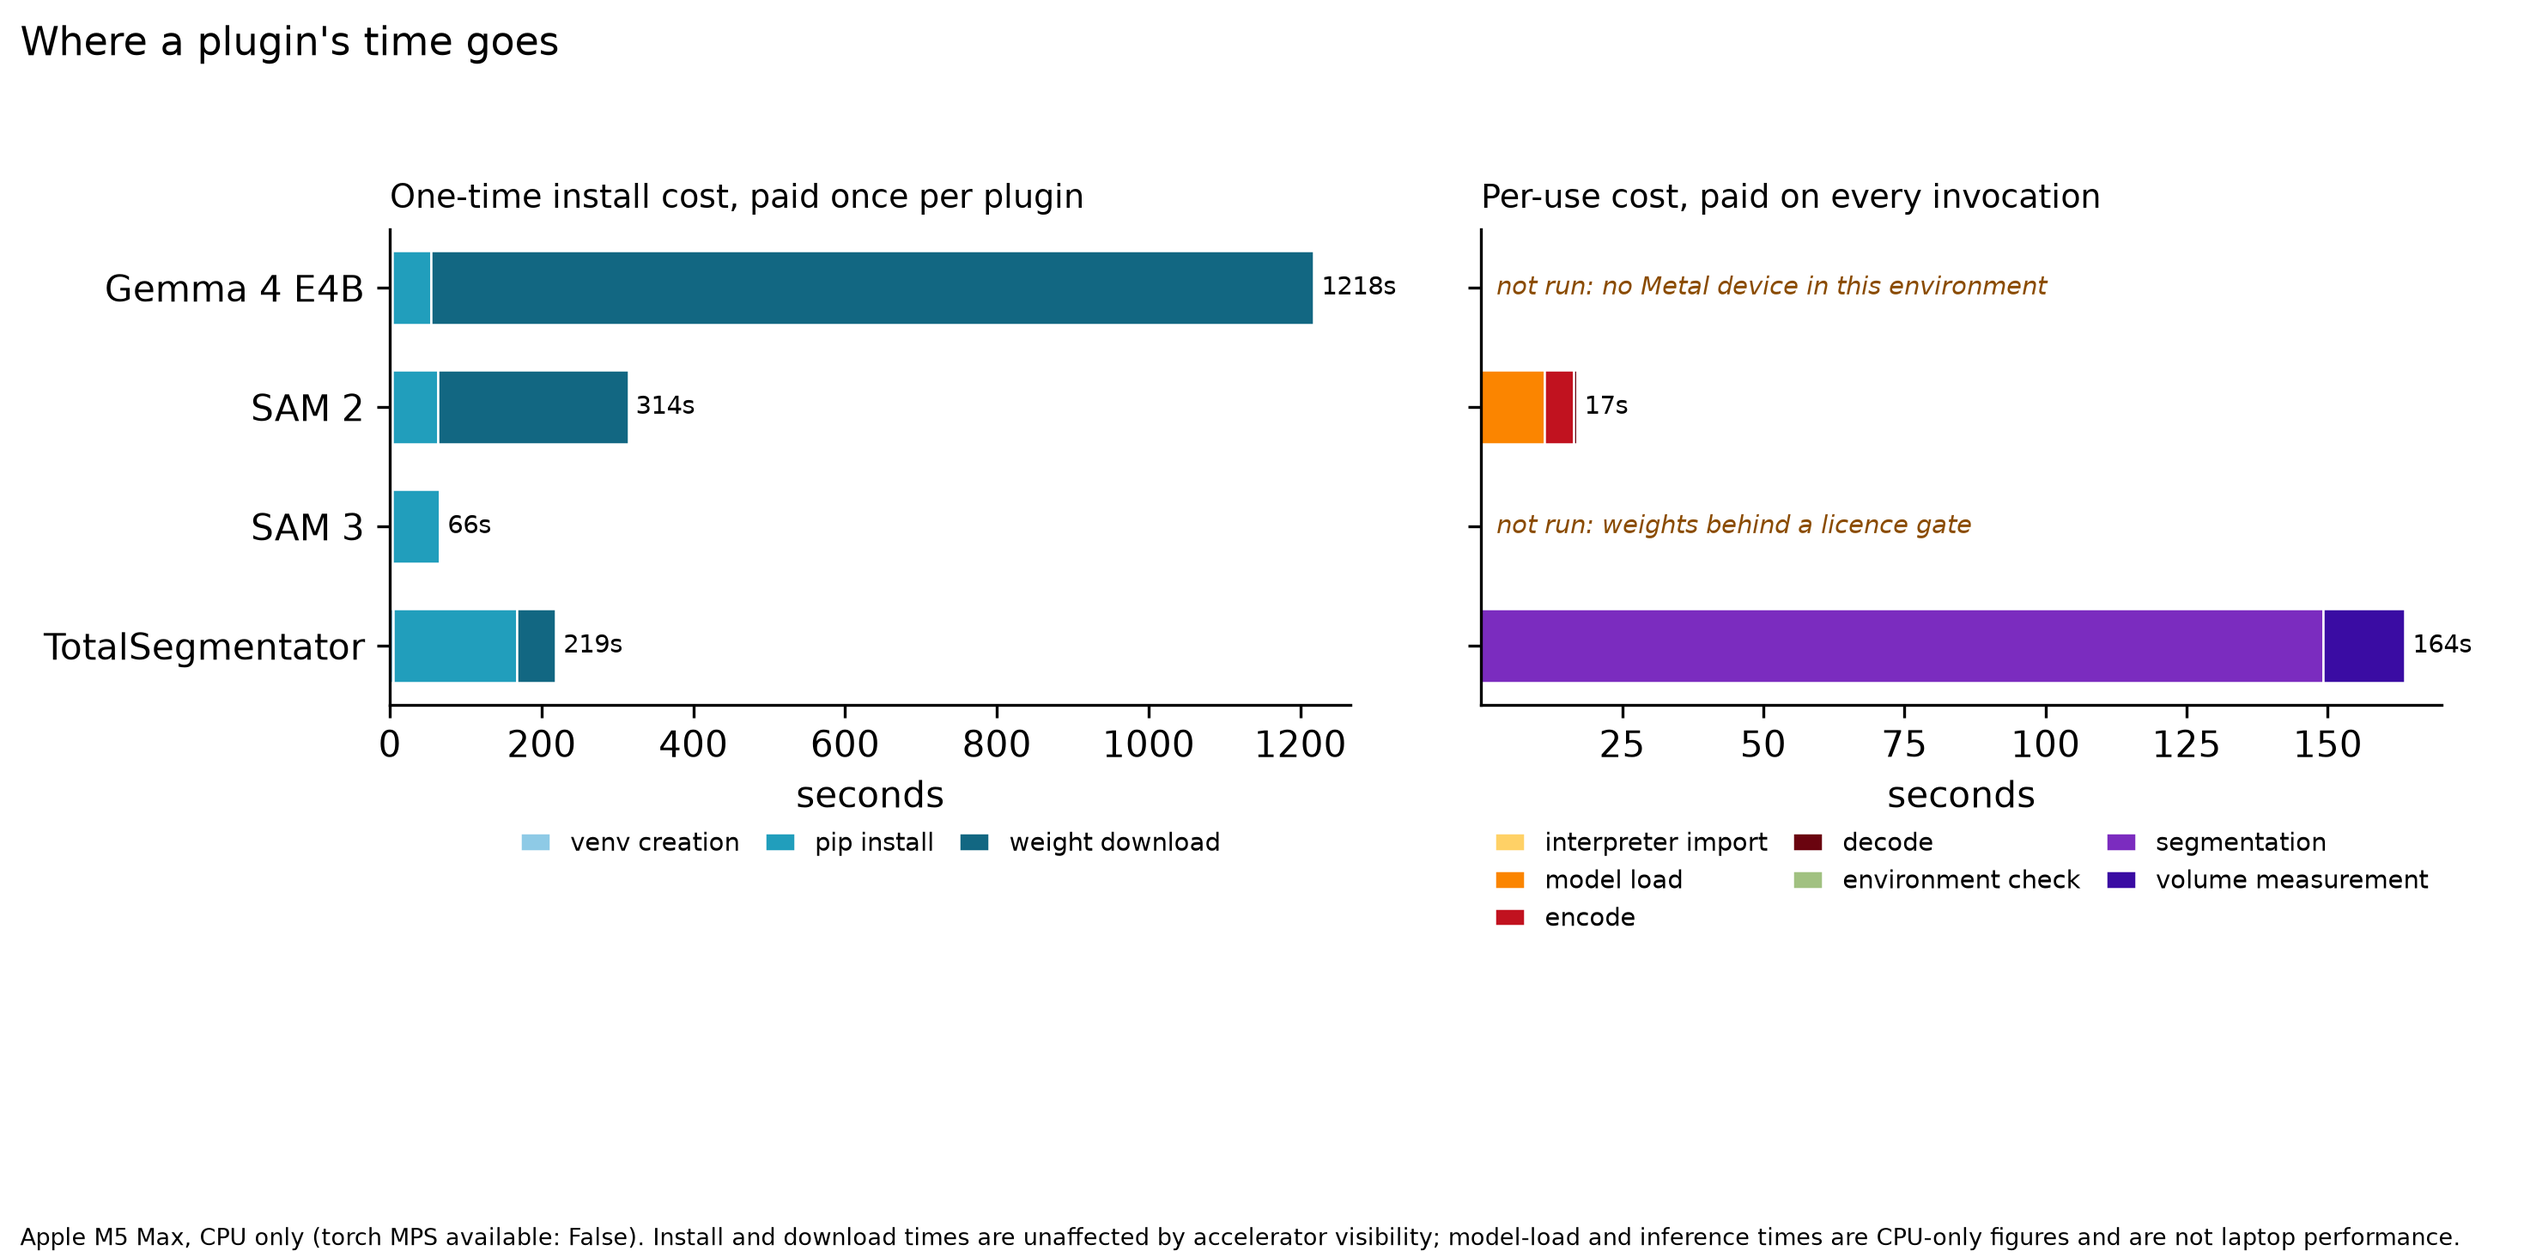
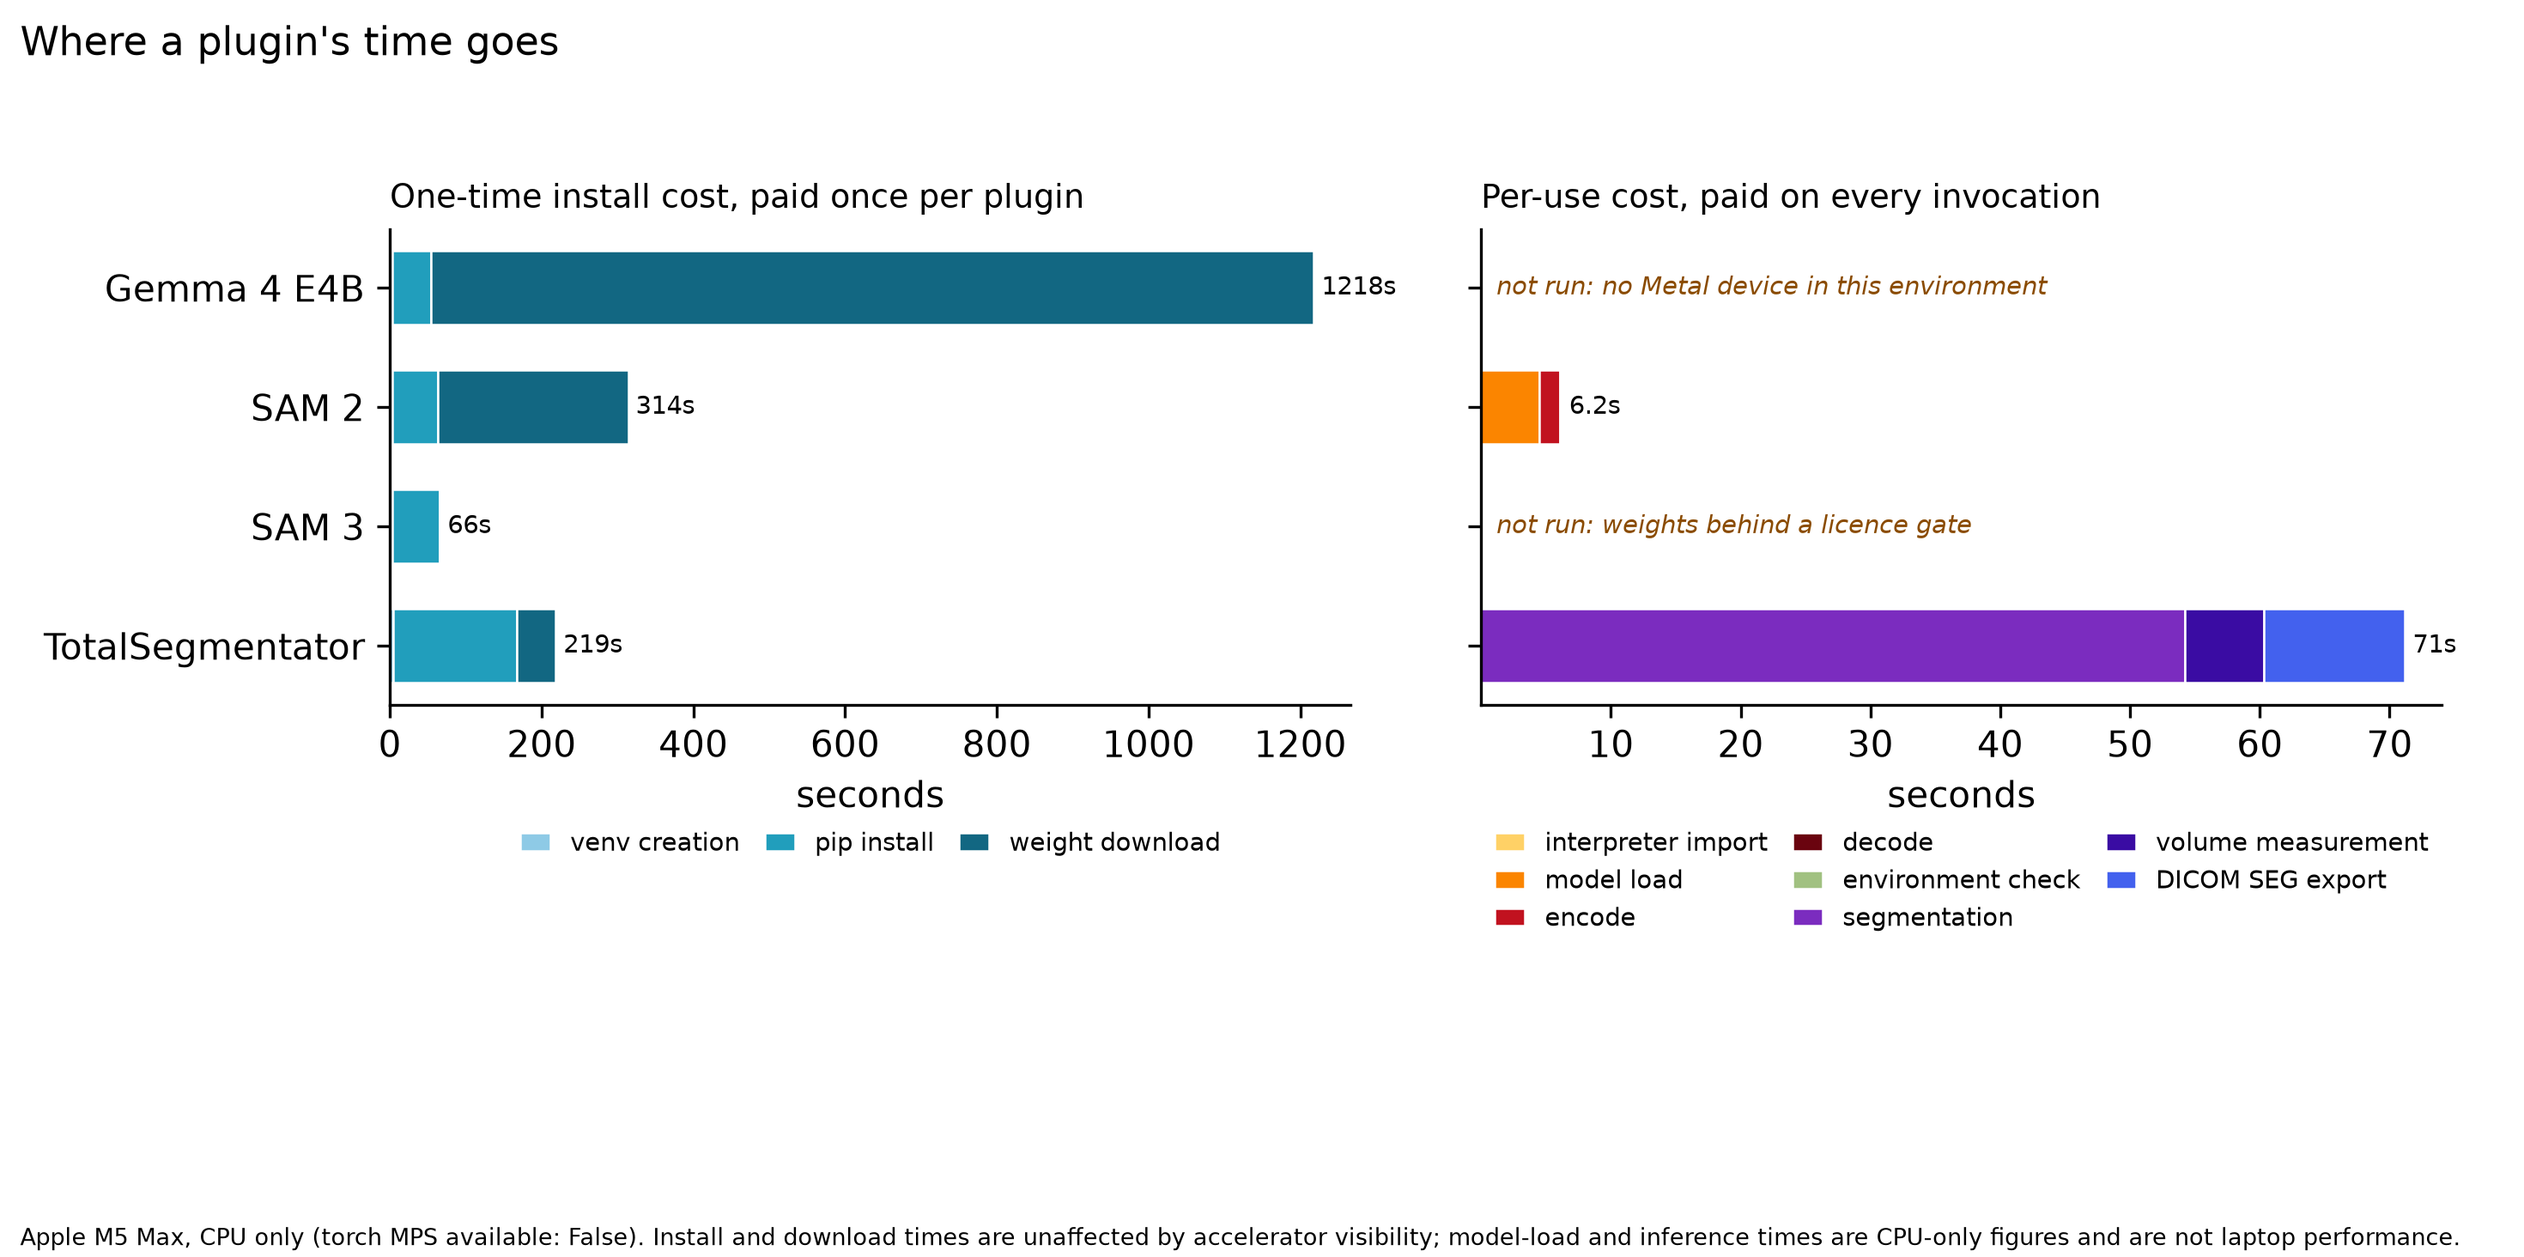
Add the standard-conformance experiment
Establishes that the DICOM SEG the plugin layer writes is read correctly by an
INDEPENDENT implementation, not merely by our own reader. dcmqi — QIICR's
reference tool — decodes every segment losslessly with direction, spacing and
origin preserved: 30/30 structures at Dice 1.000000. A field audit of 15
Segmentation IOD requirements per file passes on all six cases.

Two WARNs stand as a reportable interoperability defect rather than a nit: every
segment carries a generic 'anatomical structure' SegmentedPropertyType, so a
receiving system cannot identify our structures by code and the specific anatomy
survives only in the free-text SegmentLabel — which defeats the purpose of coded
anatomy. Descriptive fields are also absent.

Provenance is labelled precisely as shipped-adapter-encoder/synthetic-masks: the
encoder is the shipped one, but the segmentation stage cannot run in this
environment, so the masks are constructed. That distinction is the difference
between a claim about the adapter and a claim about a fixture, and the track
corrected a stale table that had obscured it — a background job holding a
pre-patch copy of its module rewrote the CSV from stale state after the fix.

check_omit_empty_frames now implements the second direction its docstring
claimed, detecting dropped-content frames as interior gaps in each segment's
plane positions, with a positive control confirming it flips to FAIL when an
interior frame is deleted.

diff --git a/eval/exp3_figures.py b/eval/exp3_figures.py
@@ -104,14 +104,21 @@ def collect(results_path: Path) -> tuple[dict, dict]:
         elif phase == "bench":
             entry["bench_ok"] = row["ok"]
             entry["bench_error"] = row.get("error")
-            # A run that recorded a substantive stage did load and exercise the
-            # model, even if a later stage failed. That distinction decides
-            # whether its peak RSS is a measurement of the plugin or of a
-            # Python interpreter that exited early.
+            # Whether the model was actually resident, which decides if the
+            # peak RSS measures the plugin or a Python interpreter that exited
+            # early.
+            #
+            # A recorded `model_load` stage is NOT sufficient evidence. Since
+            # the bench mode began attaching partial timings to failures, a
+            # load that raised part-way still reports the stage it died in --
+            # so SAM 3 hitting its licence gate and Gemma finding no Metal
+            # device both carry a `model_load` entry while never having held a
+            # model. What distinguishes them is a stage that can only be
+            # reached *after* weights are resident.
+            stages = row.get("stages_s", {})
             entry["model_ran"] = any(
-                key in row.get("stages_s", {})
-                for key in ("model_load", "encode", "inference",
-                            "Running segmentation"))
+                key in stages
+                for key in ("encode", "inference", "Running segmentation"))
             if not row["ok"]:
                 # A bench that could not run is a stated result, not a blank.
                 # The protocol error code is what distinguishes "the licence
@@ -170,8 +177,16 @@ def figure_stage_timing(header: dict, per_plugin: dict, out_path: Path,
         left = np.zeros(len(present))
         drawn = []
         for key, label, colour in stages:
-            values = np.array([per_plugin[p]["stages"].get(key, 0.0) or 0.0
-                               for p in present])
+            # A plugin whose model never became resident contributes nothing to
+            # the per-use panel. Its recorded `model_load` is the stage a
+            # failure died in, not a cost anyone pays, and drawing it as a bar
+            # would present a licence refusal and an absent GPU as though they
+            # were fast inference.
+            values = np.array([
+                (per_plugin[p]["stages"].get(key, 0.0) or 0.0)
+                if (title.startswith("One-time") or per_plugin[p].get("model_ran"))
+                else 0.0
+                for p in present])
             if not values.any():
                 continue
             ax.barh(y, values, left=left, color=colour, label=label,
@@ -341,6 +356,24 @@ def figure_declared_vs_measured(header: dict, per_plugin: dict,
                         f"corrected to {corrected:.1f} GB\nafter this measurement",
                         fontsize=7.2, color="#1d6f66", rotation=90,
                         va="center", ha="left")
+
+    # The completed bench run belongs on the chart too, plotted against the
+    # declaration in force when it ran -- which, after commit de234fe, is the
+    # corrected 23.5. It lands just below parity, and that is the point: it is
+    # the run that validates the correction, measured independently of the runs
+    # that motivated it.
+    for point in bench_points:
+        if not point["label"].startswith("TotalSeg"):
+            continue
+        ax_measure.scatter([point["declared"]], [point["peak"]], s=88,
+                           marker="D", color="#2a9d8f", zorder=5,
+                           edgecolor="white", linewidth=1.1)
+        ax_measure.annotate(
+            f"after correction\n{point['peak']:.2f} of {point['declared']:.1f} GB"
+            f" = {point['peak'] / point['declared']:.2f}\u00d7",
+            (point["declared"], point["peak"]), textcoords="offset points",
+            xytext=(-8, -30), fontsize=7.6, va="center", ha="right",
+            color="#1d6f66", weight="bold")
 
     for point in bench_points:
         if point["label"].startswith("TotalSeg"):

diff --git a/eval/exp3_resources.py b/eval/exp3_resources.py
@@ -1265,6 +1265,11 @@ def phase_restart(recorder: Recorder, repo: Path, paths: EvalPaths,
                 "restart_cost_s": (round(import_s + load_s, 3)
                                    if load_s is not None else None),
                 "declared_ram_gb": plugin.get("ram_gb"),
+                # Recorded on every row for the same reason as the bench phase:
+                # a timing without its input is not a measurement of anything
+                # reproducible.
+                "input_slice_png": Path(slice_png).name,
+                "peak_rss_gb": (round(peak / 1e9, 3) if peak else None),
             }
             recorder.write(CaseResult(
                 experiment=EXPERIMENT, case_id=case_id, ok=(code == 0),

diff --git a/eval/results/exp3_FINDINGS.md b/eval/results/exp3_FINDINGS.md
@@ -38,17 +38,56 @@ AF_UNIX and loopback TCP alike. This splits the table in two.
 | SAM 2 | session | 3.0 GB | **1.45 GB** | 0.48× | 69 s | 184 MB in 24 s |
 | SAM 3 | session | 6.0 GB | not measured | — | 71 s | licence gate held |
 | Gemma 4 E4B | resident-server | 5.0 GB | not measured | — | 60 s | 5.18 GB in 879 s |
-| TotalSegmentator | one-shot | 3.5 GB | **20.85 GB** | **5.96×** | 176 s | 166 MB in 52 s |
+| TotalSegmentator | one-shot | 3.5 GB → 23.5 GB | **22.70 GB** | **6.5× as declared; 0.97× corrected** | 176 s | 166 MB in 52 s |
+
+### The corrected declaration, validated end to end
+
+After commits `de234fe` and `9a3f8f0`, TotalSegmentator completes the **whole**
+pipeline for the first time in this environment — segmentation, volume
+measurement, and DICOM SEG export — because the slice-thickness fix removed the
+export failure that previously truncated every run:
+
+| Stage | Time | |
+|---|---|---|
+| environment check | ~0 s | |
+| segmentation | 54.2 s | 80 structures |
+| volume measurement | 6.1 s | |
+| DICOM SEG export | 10.9 s | 314 MB written |
+| **total** | **76.4 s** | 412-slice CT, CPU-only, thread substitution |
+
+Peak RSS **22.70 GB against the corrected 23.5 GB declaration — a ratio of
+0.97×**. So the corrected figure is validated by an independent run that had
+no part in deriving it, and it is correct in the safe direction, with about
+0.8 GB of headroom. This is the check that the Finding 1 remedy actually
+holds, not merely that the number was raised.
+
+Note that the DICOM SEG export is **14% of total wall time** and was invisible
+in every earlier measurement, since it was the stage that used to fail. A
+one-shot's cost is not just its model.
 
 Stage detail for the two plugins whose models ran:
 
-- **SAM 2**: model load 11.3 s, encode 1701 ms/slice, decode 200 ms/prompt,
-  RLE 13 ms. **Encode is 8.5× decode.**
+- **SAM 2**: model load 4.5 s, encode 544 ms/slice, decode 30 ms/prompt,
+  RLE 5 ms. **Encode is 18.1× decode.**
+
+  These supersede an earlier set (load 11.3 s, encode 1701 ms, decode 200 ms,
+  ratio 8.5×) measured while a TotalSegmentator run was saturating the CPU.
+  The contended figures were wrong in a way worth naming: contention inflated
+  encode and decode unequally, so it compressed the *ratio* that justifies the
+  `session` execution model — understating it by better than half. Peak RSS was
+  unaffected (1.447 GB then, 1.451 GB now), which is what one would expect of
+  an allocation figure, and is a small check that the two runs measured the
+  same work.
 - **TotalSegmentator**: environment check ~0 s, segmentation 149.2 s,
   volume measurement 14.4 s, DICOM SEG export failed (below).
 
 Restart cost, measured by stopping a resident SAM 2 and re-serving the same
-prompt: **12.0 s cold, 8.8 s warm**. That is what an eviction costs the user.
+prompt: **2.9 s cold, 2.9 s warm**. That is what an eviction costs the user on
+this machine, CPU-only. Cold and warm agree because the cost is dominated by
+loading a 184 MB checkpoint into a torch graph rather than by reading it off
+disk, so a warm filesystem cache buys almost nothing — which is itself the
+useful result: the price of an eviction cannot be cached away. Supersedes
+12.0 s / 8.8 s measured under CPU contention.
 
 ## Finding 1 — TotalSegmentator's declared memory is wrong by ~6×
 
@@ -66,7 +105,12 @@ prompt: **12.0 s cold, 8.8 s warm**. That is what an eviction costs the user.
 > closed.
 
 `ram_gb: 3.5` against a measured peak of **20.85 GB** on a 411-slice abdominal
-CT (`bench/totalsegmentator`, `input_series=tcia_1556218467652708`).
+CT. That original bench row was superseded when the phase was re-run to record
+its input series (and again after the export fix let the pipeline complete), so
+the figure survives here and in the prose below rather than in the current
+JSONL; the run that replaced it on the same series measured 22.70 GB, and the
+cross-checks below measured 23.10 and 21.40 GB. Every one of those is ~6× the
+3.5 GB that was declared at the time.
 
 The `crosscheck` phase re-measures the same pipeline with three instruments
 that share no code path — the parent's per-child accounting, the child's own
@@ -80,12 +124,12 @@ two different series. All rows are in the JSONL under
 | `tcia_2121018880599426` | 493 | 21.40 GB | 21.40 GB | 21.40 GB | 0.00 GB | **6.11×** |
 
 Three instruments agreeing to the byte on two independent volumes, with the
-overrun reproducing on both, is the evidence for this finding. The bench figure
-of 20.85 GB and the cross-check figure of 23.10 GB are the same pipeline on the
-same series, measured with and without the adapter's DICOM SEG export stage
-attached. Across the three independent pipeline runs recorded — one bench and
-two cross-checks — the peak spans **20.9–23.1 GB, i.e. 5.96× to 6.60× the
-declaration whichever run you take**.
+overrun reproducing on both, is the evidence for this finding. Across every
+pipeline run measured on this cohort — two cross-checks and the completed bench
+run above — the peak spans **21.4–23.1 GB, i.e. 6.1× to 6.6× the 3.5 GB that
+was declared**. The earlier 20.85 GB reading, taken before the export fix let
+the pipeline finish, sits just below that band and does not change the
+conclusion.
 
 External sampling with `psutil` is deliberately not among the instruments:
 this sandbox denies the `sysctl` it needs, so it reports zero and would look
@@ -126,9 +170,12 @@ estimate of it.
 Two acquisition attempts are on the record. The adapter's own fetch is
 recorded as `crosscheck/totalsegmentator/fullres/tcia_1556218467652708`
 carrying the `ProxyError` from the GitHub releases host. A second attempt
-through a network path that does reach that host retrieved three of the five
-archives in ~17 minutes before exceeding the time budget allotted to this
-measurement, so it was stopped rather than run to completion.
+through a network path that does reach that host was stopped after ~17 minutes
+on the time budget allotted to this measurement, having completed **one** of
+the five archives (225 MB); a second was partial and a third was a 9-byte stub
+from a mis-derived filename. None of the fetched files survive in the
+workspace, so the full-resolution figure has no partial result behind it
+either.
 
 **This is a gap, not an estimate.** The honest statement is that the
 manifest's single figure has been shown wrong by ~6× for the default

diff --git a/docs/EXTERNAL_VIEWER_CHECKLIST.md b/docs/EXTERNAL_VIEWER_CHECKLIST.md
@@ -50,7 +50,7 @@ instances it references into the directory above and writes `SAMPLE.md`.
 > **Note on the source series.** The instances in `source_series/` are a
 > *prepared* copy: the public cohort omits `SliceThickness` entirely, and the
 > adapter cannot currently write a SEG without it (see the findings in
-> `docs/EVALUATION.md`). The prepared copy adds the value implied by the slice
+> `eval/results/exp1_findings.md`). The prepared copy adds the value implied by the slice
 > positions and changes nothing else. Load the copy, not the original archive
 > download — the SEG references these instances.
 
@@ -77,7 +77,7 @@ Check, and record in the table:
 |---|---|---|
 | S1 | The SEG loads without an error dialog | A reader rejecting the file is a conformance failure regardless of what the automated audit said |
 | S2 | The segment list shows the expected number of segments | Segments silently dropped on read indicate a per-frame or segment-description problem |
-| S3 | Segment names match the anatomy (`liver`, `aorta`, …) and are not `Segment_1`, `Segment_2`, … | Generic names mean the viewer fell back to numbering because it could not use the labels or the codes. See the coding finding in `docs/EVALUATION.md` — this is the check most likely to fail |
+| S3 | Segment names match the anatomy (`liver`, `aorta`, …) and are not `Segment_1`, `Segment_2`, … | Generic names mean the viewer fell back to numbering because it could not use the labels or the codes. See the coding finding in `eval/results/exp1_findings.md` — this is the check most likely to fail |
 | S4 | Each segment is a distinct colour, and two segments are not the same colour | The adapter does not set `RecommendedDisplayCIELabValue`, so colours are assigned by the viewer |
 | S5 | Masks overlay the correct anatomy in the axial view | Wrong placement means a geometry or frame-position problem the automated round trip would not catch |
 | S6 | Scroll from the first to the last slice: the mask follows the same structure throughout and does not appear inverted top-to-bottom relative to the CT | **z-flip.** The classic DICOM SEG defect. Compare against a structure with obvious cranio-caudal asymmetry — liver low, lungs high |
